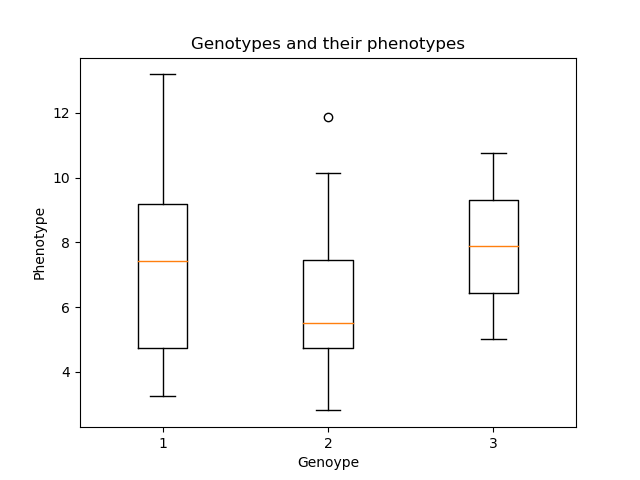
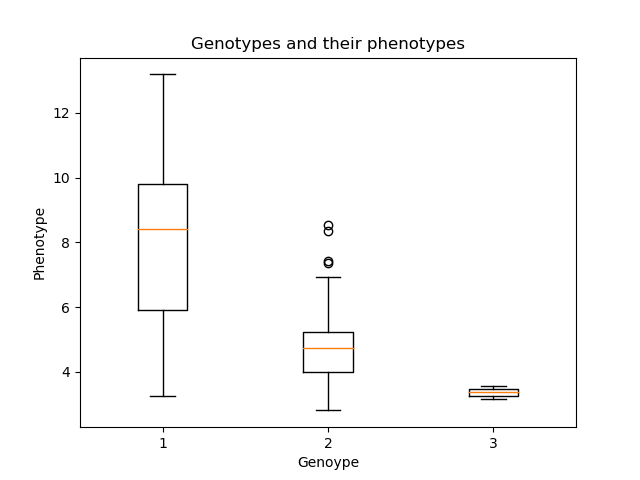
changed my boxplot

diff --git a/week6-homework/plotting.py b/week6-homework/plotting.py
@@ -68,45 +68,45 @@ axs[1].legend()
 plt.tight_layout()
 fig3.savefig("Manhattans.png")
 
-# fig4, ax4 = plt.subplots()
-# maxP = np.max(gwas_G['-log10_P'])
-# rowID = gwas_G[gwas_G['-log10_P'] == maxP]
-# snpID = rowID.loc[:,'SNP'].values[0]
+fig4, ax4 = plt.subplots()
+maxP = np.max(gwas_G['-log10_P'])
+rowID = gwas_G[gwas_G['-log10_P'] == maxP]
+snpID = rowID.loc[:,'SNP'].values[0]
 
-# maxP2 = np.max(gwas_C['-log10_P'])
-# rowID2 = gwas_C[gwas_C['-log10_P'] == maxP2]
-# snpID2 = rowID2.loc[:,'SNP'].values[0]
+maxP2 = np.max(gwas_C['-log10_P'])
+rowID2 = gwas_C[gwas_C['-log10_P'] == maxP2]
+snpID2 = rowID2.loc[:,'SNP'].values[0]
 
-# GT_vcf = pd.read_csv('genotypes.vcf', delimiter = '\t', skiprows = 27)
-# GOI = GT_vcf[GT_vcf['ID']==snpID]
+GT_vcf = pd.read_csv('genotypes.vcf', delimiter = '\t', skiprows = 27)
+GOI = GT_vcf[GT_vcf['ID']==snpID]
 
-# POI = pd.read_csv('GS451_IC50.txt', delim_whitespace = True)
+POI = pd.read_csv('GS451_IC50.txt', delim_whitespace = True)
 
-# wt = []
-# het = []
-# hom = []
+wt = []
+het = []
+hom = []
 
-# plt_me = [wt, het, hom]
+plt_me = [wt, het, hom]
 
-# for i in range(len(GOI.values[0])):
-#     if GOI.values[0][i]== '0/0':
-#        wt.append(POI.iloc[i-7,2])
-#     if GOI.values[0][i]== '0/1':
-#        het.append(POI.iloc[i-7,2])
-#     if GOI.values[0][i]== '1/1':
-#        hom.append(POI.iloc[i-7,2])
+for i in range(len(GOI.values[0])):
+    if GOI.values[0][i]== '0/0':
+       wt.append(POI.iloc[i-9,2])
+    if GOI.values[0][i]== '0/1':
+       het.append(POI.iloc[i-9,2])
+    if GOI.values[0][i]== '1/1':
+       hom.append(POI.iloc[i-9,2])
 
-# for i in range(len(plt_me)):
-#     plt_me[i] = [x for x in plt_me[i] if str(x) != 'nan']
+for i in range(len(plt_me)):
+    plt_me[i] = [x for x in plt_me[i] if str(x) != 'nan']
 
-# ax4.boxplot(plt_me)
-# ax4.set_title( "Genotypes and their phenotypes")
-# ax4.set_xlabel('Genoype')
-# ax4.set_ylabel('Phenotype')
-# plt.savefig("Boxplot.png")
+ax4.boxplot(plt_me)
+ax4.set_title( "Genotypes and their phenotypes")
+ax4.set_xlabel('Genoype')
+ax4.set_ylabel('Phenotype')
+plt.savefig("Boxplot.png")
 
-# print(snpID)
-# print(snpID2)
+print(snpID)
+print(snpID2)
 
 
 
